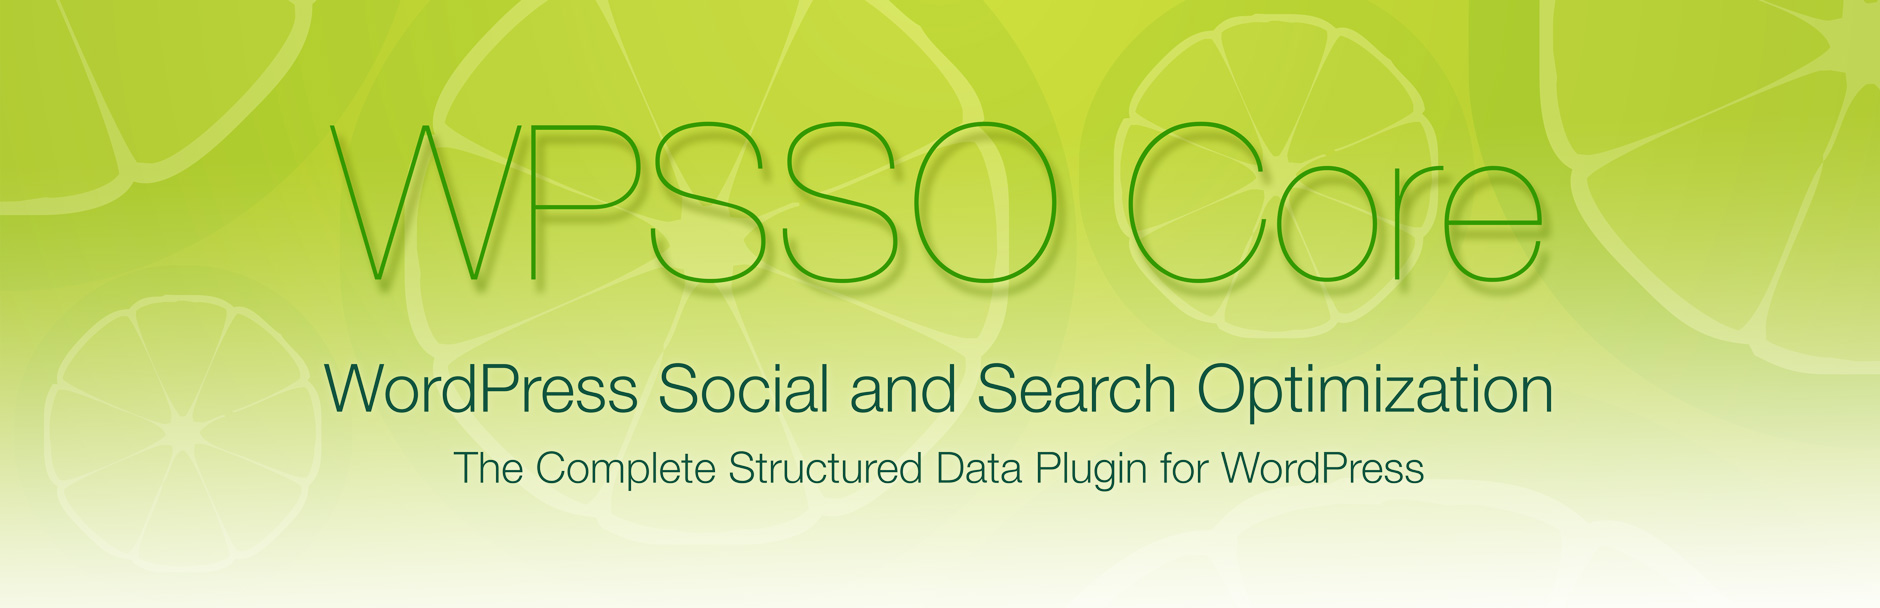
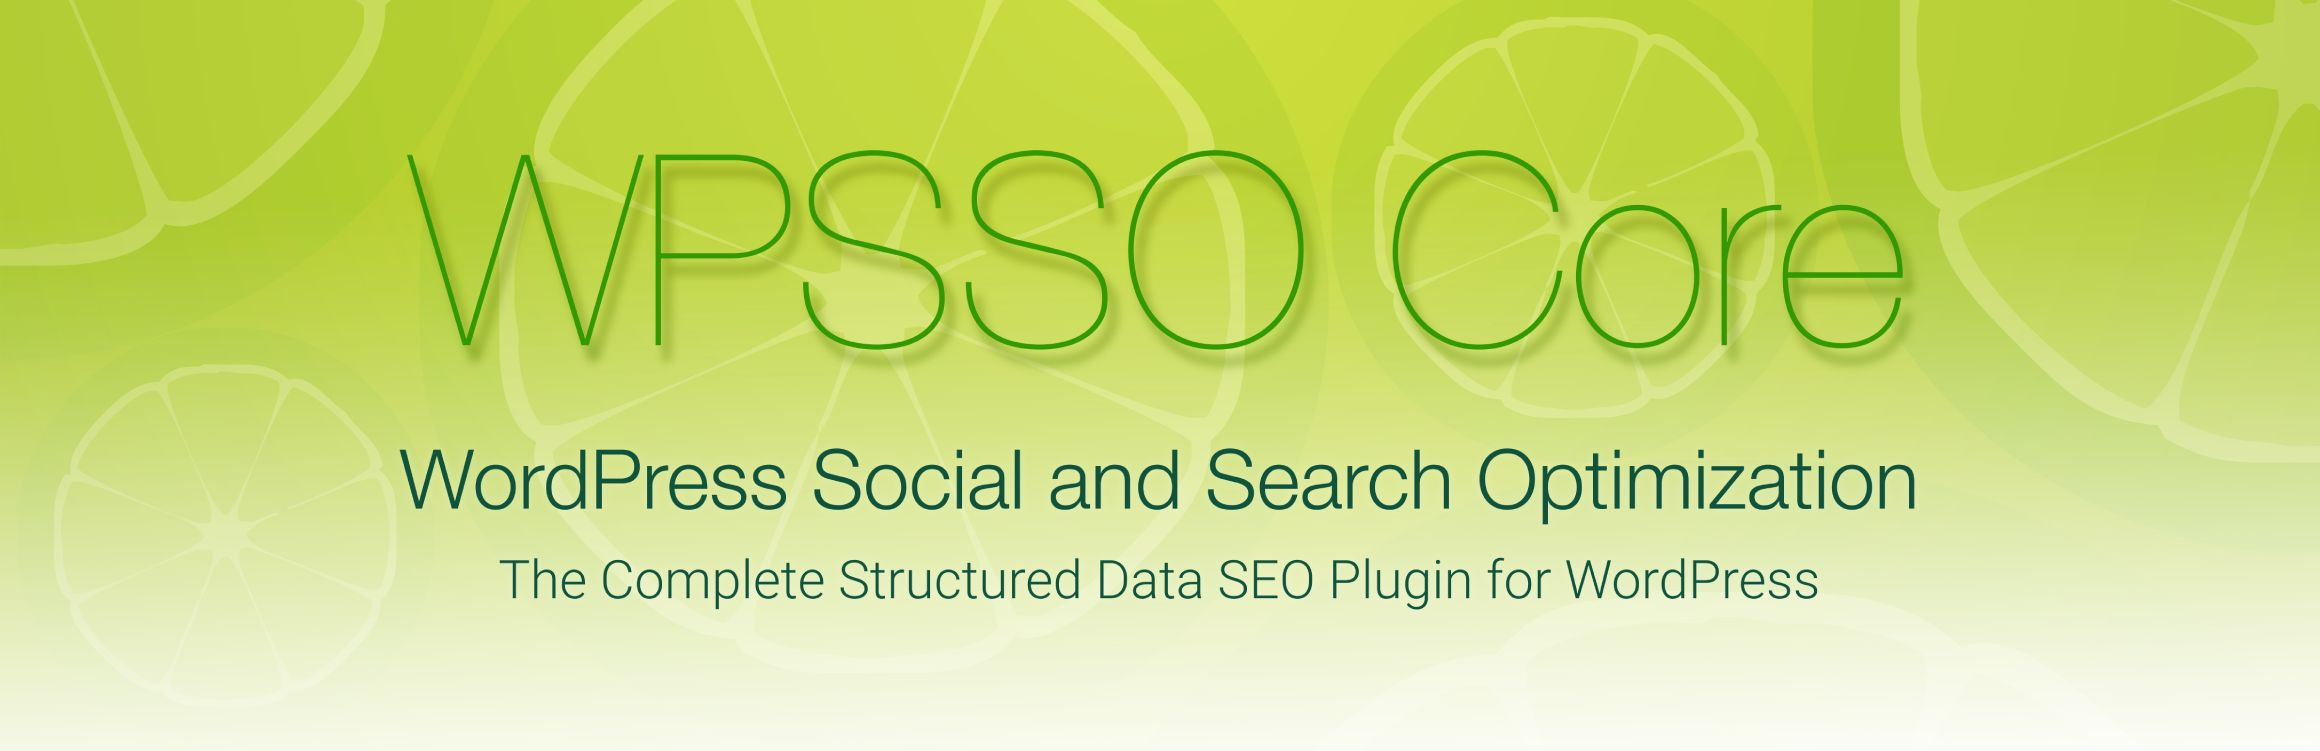
documentation and assets update

diff --git a/index.html b/index.html
@@ -25,7 +25,7 @@
         </ul>
       </header>
       <section>
-<h1>WPSSO Core - The Complete Structured Data Plugin</h1>
+<h1>WPSSO Core - The Complete Structured Data SEO Plugin</h1>
 
 <table>
 <tr><th align="right" valign="top" nowrap>Plugin Name</th><td>WPSSO Core</td></tr>
@@ -42,7 +42,7 @@
 
 <h2>Description</h2>
 
-<h3 class="top">The Complete Structured Data Plugin for WordPress</h3>
+<h3 class="top">The Complete Structured Data SEO Plugin for WordPress</h3>
 
 <p><strong>Creates extensive and complete structured data to present your content at its best for social sites and search results, no matter how URLs are shared, reshared, messaged, posted, embedded, or crawled.</strong></p>
 

diff --git a/README.md b/README.md
@@ -1,4 +1,4 @@
-<h1>WPSSO Core - The Complete Structured Data Plugin</h1>
+<h1>WPSSO Core - The Complete Structured Data SEO Plugin</h1>
 
 <table>
 <tr><th align="right" valign="top" nowrap>Plugin Name</th><td>WPSSO Core</td></tr>
@@ -15,7 +15,7 @@
 
 <h2>Description</h2>
 
-<h3 class="top">The Complete Structured Data Plugin for WordPress</h3>
+<h3 class="top">The Complete Structured Data SEO Plugin for WordPress</h3>
 
 <p><strong>Creates extensive and complete structured data to present your content at its best for social sites and search results, no matter how URLs are shared, reshared, messaged, posted, embedded, or crawled.</strong></p>
 
